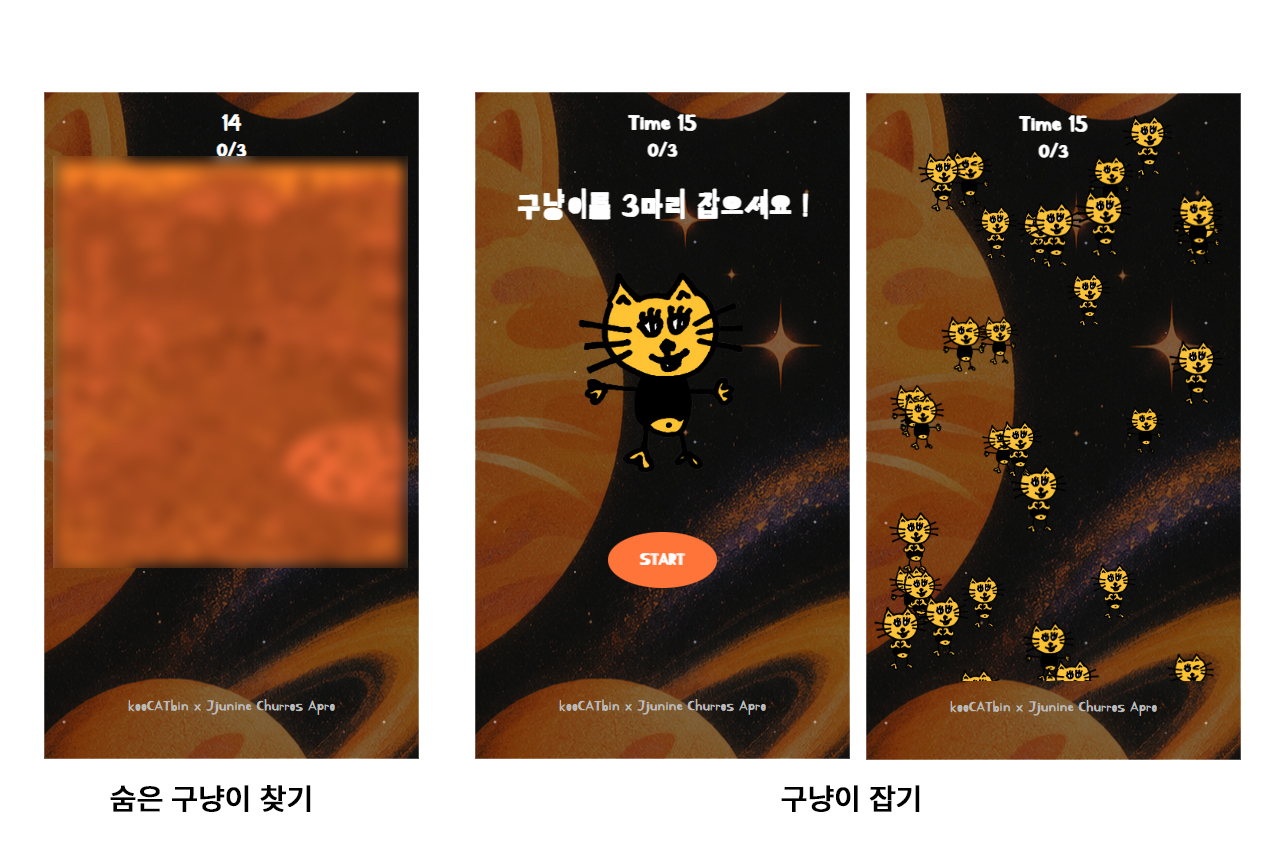
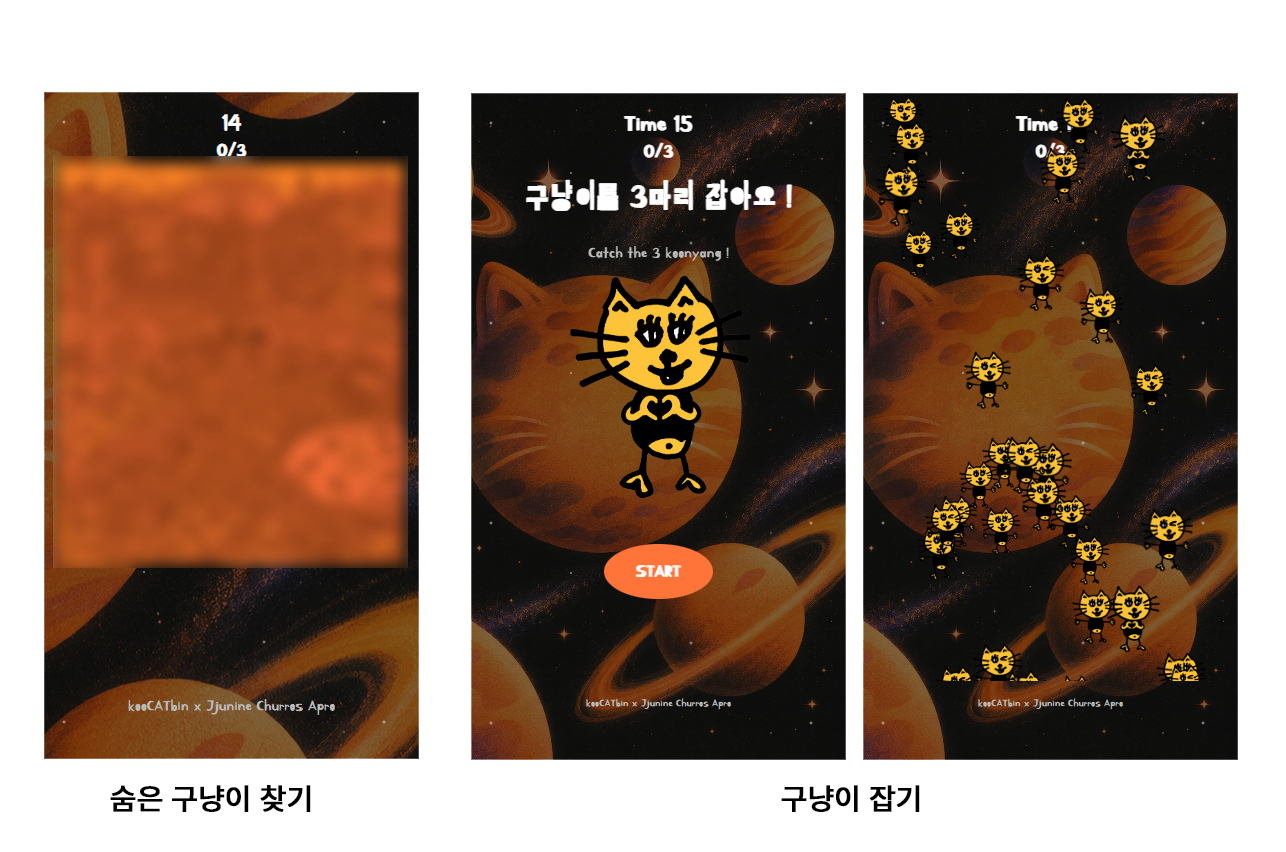
dd

Changed region(s): [[0.3421, 0.0915, 0.9642, 0.9155]]

diff --git a/src/components/game2Screen.jsx b/src/components/game2Screen.jsx
@@ -250,7 +250,7 @@ export default function Game2Screen({
               marginBottom: 24,
             }}
           >
-            구냥이를 3마리 잡으세요 !
+            구냥이를 3마리 잡아요 !
             
           </h1>
           <span className="sub-txt">Catch the 3 koonyang !</span>
@@ -318,28 +318,28 @@ export default function Game2Screen({
         />
       ))}
       {wrongEffects.map((effect) => (
-        <div
-          key={effect.id}
-          style={{
-            position: "absolute",
-            left: effect.x,
-            top: effect.y,
+          <div
+            key={effect.id}
+            style={{
+              position: "absolute",
+              left: effect.x,
+              top: effect.y,
 
-            transform:
-              "translate(-50%, -50%)",
+              transform:
+                "translate(-50%, -50%)",
 
-            color: "#ff7439",
-            fontSize: 48,
-            fontWeight: "bold",
+              color: "#ff7439",
+              fontSize: 48,
+              fontWeight: "bold",
 
-            pointerEvents: "none",
+              pointerEvents: "none",
 
-            animation:
-              "wrongPop 0.5s ease forwards",
-          }}
-        >
-          ✕
-        </div>
+              animation:
+                "wrongPop 0.5s ease forwards",
+            }}
+          >
+            ✕
+          </div>
       ))}
     </div>
   );